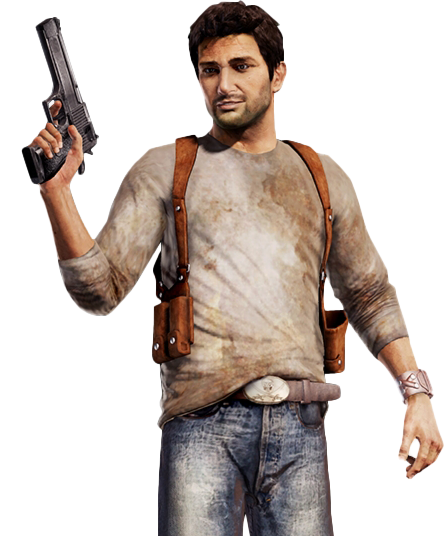
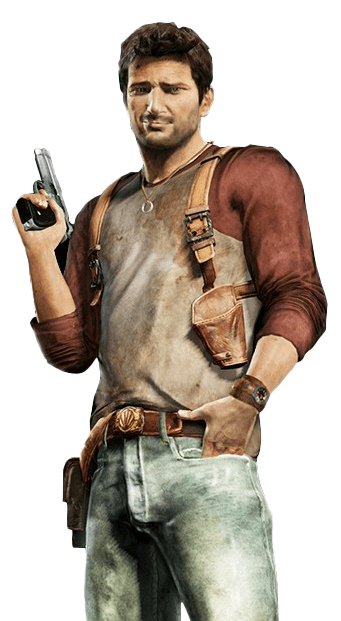
Afbeeldingen toegevoegd

diff --git a/index.html b/index.html
@@ -43,7 +43,7 @@
 						<a target="_blank" href="https://uncharted.fandom.com/wiki/Saint_Francis%27_Boy%27s_Home">Read more</a>
 					</section>
 
-					<img class="drakeImage" src="./images/Nathan40yearsold.png" />
+					<img class="drakeImage" src="./images/nathan12yearsold.png" />
 				</article>
 			</li>
 			<li>

diff --git a/styles/style.css b/styles/style.css
@@ -91,7 +91,7 @@ main>ol>li:hover {
 }
 
 main>ol>li:nth-of-type(1) {
-  background-image: url(../images/1988Covertemp.png);
+  background-image: url(../images/1988Cover.png);
   background-repeat: no-repeat;
   background-size: cover;
 }
